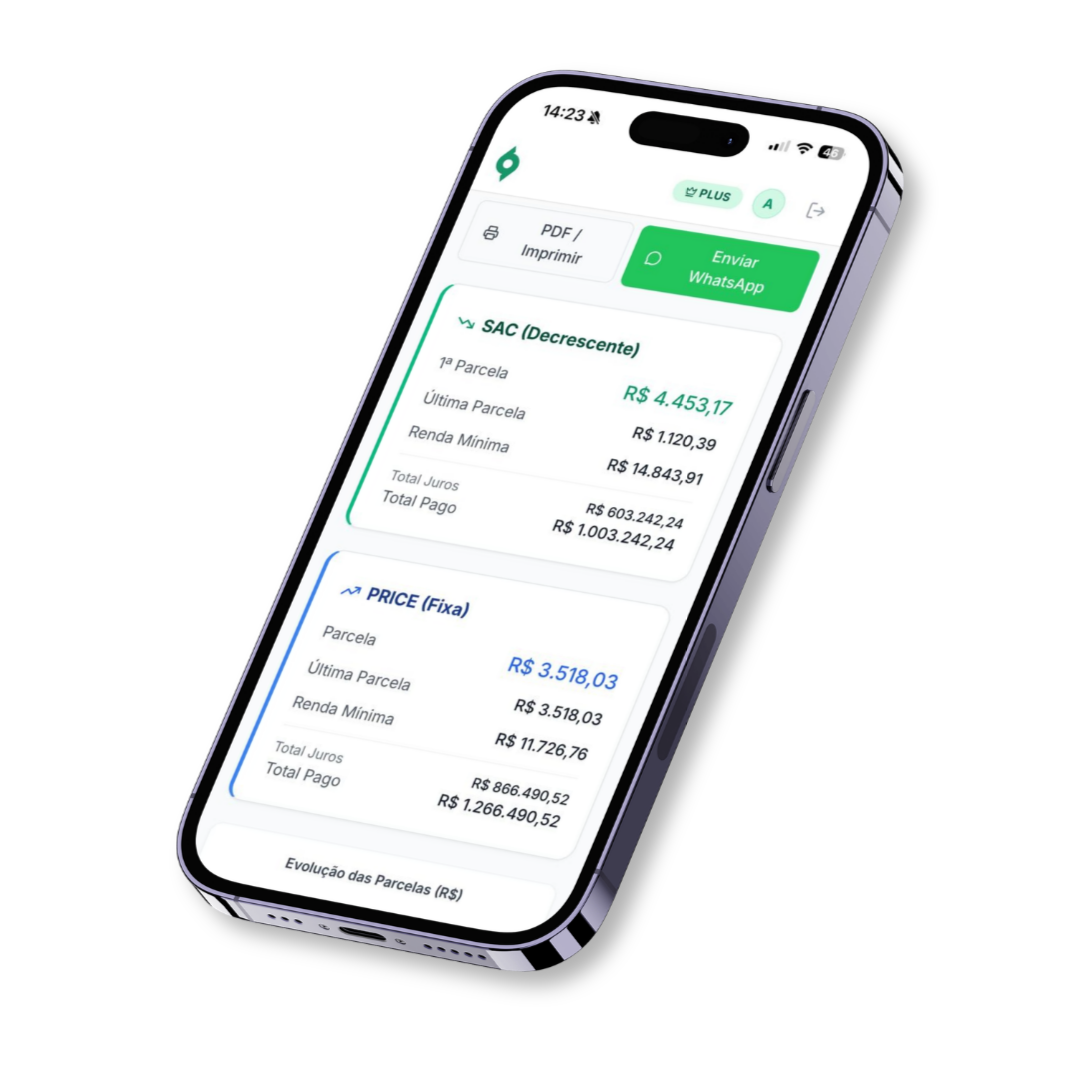
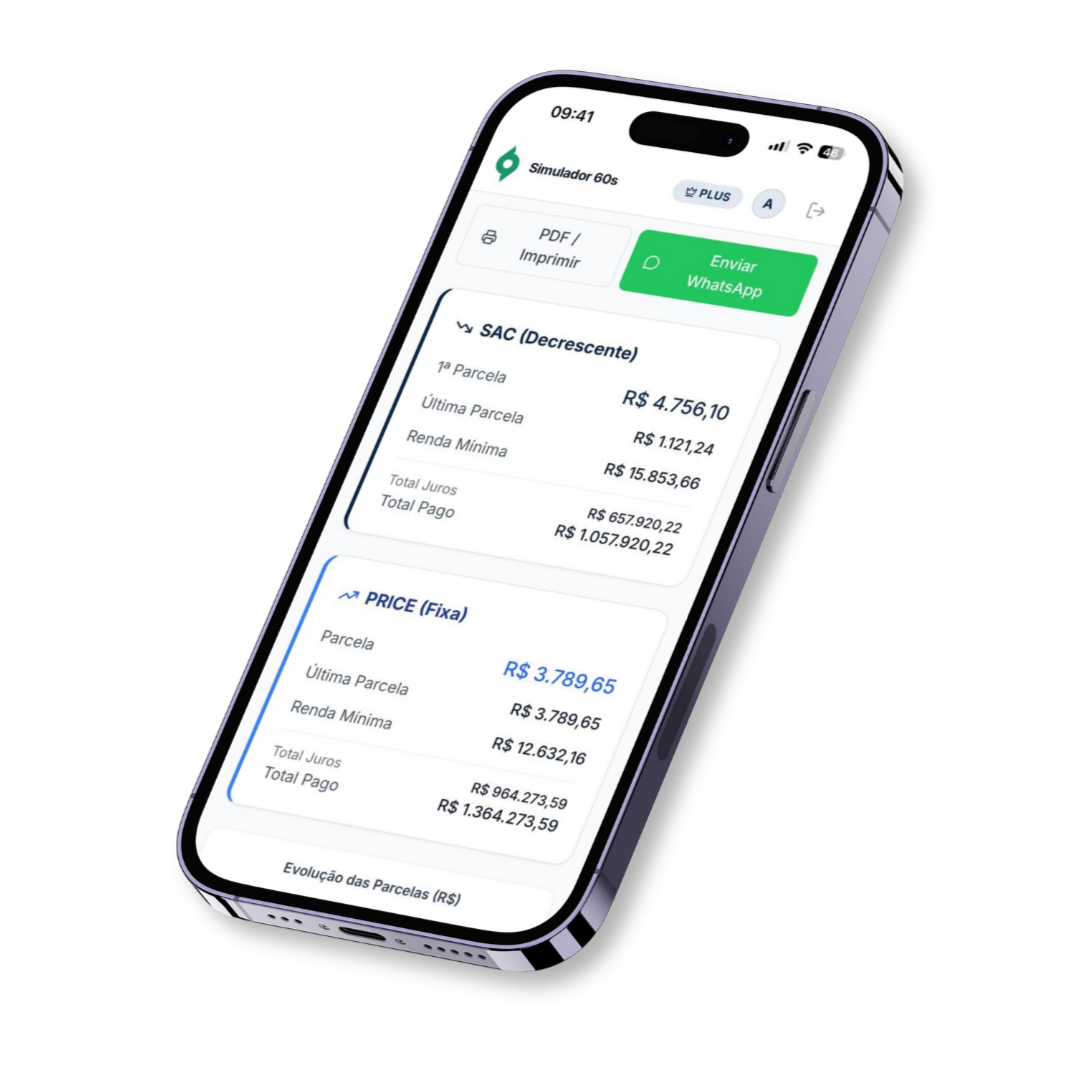
Ajusta preco para R fixo, adiciona secao de envio via WhatsApp na LP, corrige nome ausente no header mobile e remove travessoes dos textos

diff --git a/simulador-60-segundos/components/LandingPageNoBrain.tsx b/simulador-60-segundos/components/LandingPageNoBrain.tsx
@@ -161,7 +161,7 @@ export default function LandingPageNoBrain() {
                                 alt="Logo Simulador 60 Segundos"
                                 className="h-9 w-auto object-contain"
                             />
-                            <span className="text-lg font-bold tracking-tight text-white hidden sm:inline">Simulador 60 Segundos</span>
+                            <span className="text-sm sm:text-lg font-bold tracking-tight text-white whitespace-nowrap">Simulador 60 Segundos</span>
                         </button>
 
                         <div className="hidden md:flex items-center gap-4">
@@ -193,7 +193,7 @@ export default function LandingPageNoBrain() {
                             QUERO ACESSO AGORA
                         </button>
                         <button onClick={() => navigate('/login')} className="block w-full text-center text-white/70 text-sm py-1">
-                            Já sou cliente — Entrar
+                            Já sou cliente
                         </button>
                     </div>
                 )}
@@ -224,8 +224,8 @@ export default function LandingPageNoBrain() {
                             </h1>
 
                             <p className="max-w-xl mx-auto md:mx-0 text-lg text-[#D9E2EC] mb-8 leading-relaxed">
-                                Calcule entrada, parcelas SAC e PRICE, renda mínima, custos da compra, valor do anúncio e sua comissão —
-                                tudo no Simulador 60 Segundos, uma única ferramenta na palma da mão.
+                                Calcule entrada, parcelas SAC e PRICE, renda mínima, custos da compra, valor do anúncio e sua comissão.
+                                Tudo no Simulador 60 Segundos, uma única ferramenta na palma da mão.
                             </p>
 
                             <div className="flex flex-col sm:flex-row items-center justify-center md:justify-start gap-4">
@@ -422,6 +422,49 @@ export default function LandingPageNoBrain() {
                 </div>
             </section>
 
+            {/* --- ENVIO PELO WHATSAPP --- */}
+            <section className="py-20 bg-[#F3F5F7]">
+                <div className="max-w-6xl mx-auto px-4 sm:px-6 lg:px-8">
+                    <div className="grid lg:grid-cols-2 gap-12 items-center">
+                        <div className="order-1 flex justify-center">
+                            <img
+                                src="/images/tela_whatsapp.png"
+                                alt="Print real: resumo da simulação de financiamento enviado pelo WhatsApp no Simulador 60 Segundos"
+                                className="w-full max-w-[300px] sm:max-w-[360px] h-auto drop-shadow-2xl"
+                            />
+                        </div>
+                        <div className="order-2 text-center lg:text-left">
+                            <h2 className="text-3xl md:text-4xl font-black text-[#0F2747] mb-6">Envie um resumo profissional pelo WhatsApp em 1 toque</h2>
+                            <p className="text-[#1D2633]/70 mb-6">
+                                Depois de calcular o cenário, você não precisa digitar nada de novo pro cliente. O Simulador monta um
+                                resumo já formatado (com os dados do imóvel, entrada, parcelas SAC e PRICE e a ressalva sobre o CET)
+                                e você envia direto pelo WhatsApp, com o cliente ainda na sua frente.
+                            </p>
+                            <ul className="space-y-3 mb-8 text-left max-w-sm mx-auto lg:mx-0">
+                                <li className="flex items-start gap-3">
+                                    <CheckCircle2 className="w-5 h-5 text-[#B7F34A] flex-shrink-0 mt-0.5" />
+                                    <span className="text-[#1D2633]">Resumo pronto, sem digitar de novo</span>
+                                </li>
+                                <li className="flex items-start gap-3">
+                                    <CheckCircle2 className="w-5 h-5 text-[#B7F34A] flex-shrink-0 mt-0.5" />
+                                    <span className="text-[#1D2633]">Cenários SAC e PRICE lado a lado</span>
+                                </li>
+                                <li className="flex items-start gap-3">
+                                    <CheckCircle2 className="w-5 h-5 text-[#B7F34A] flex-shrink-0 mt-0.5" />
+                                    <span className="text-[#1D2633]">Passa mais profissionalismo do que print de tela</span>
+                                </li>
+                            </ul>
+                            <button
+                                onClick={handleAction}
+                                className="px-8 py-4 bg-[#B7F34A] text-[#0F2747] rounded-xl font-black hover:brightness-95 transition-all shadow-lg inline-flex items-center gap-2"
+                            >
+                                QUERO ENVIAR ASSIM TAMBÉM <ArrowRight className="w-5 h-5" />
+                            </button>
+                        </div>
+                    </div>
+                </div>
+            </section>
+
             {/* --- TRANSFORMAÇÃO DESEJADA --- */}
             <section className="py-20 bg-[#0F2747] text-white">
                 <div className="max-w-5xl mx-auto px-4 sm:px-6 lg:px-8">
@@ -550,15 +593,21 @@ export default function LandingPageNoBrain() {
                         Acesso liberado na hora
                     </div>
                     <h2 className="text-3xl md:text-4xl font-black text-[#0F2747] mb-4">Tenha as 4 ferramentas liberadas agora mesmo</h2>
-                    <p className="text-[#1D2633]/70 mb-12 max-w-xl mx-auto">Um pagamento por ano. Sem limite de uso, sem burocracia — acesso liberado assim que a compra é confirmada.</p>
+                    <p className="text-[#1D2633]/70 mb-12 max-w-xl mx-auto">Um pagamento por ano. Sem limite de uso, sem burocracia. Acesso liberado assim que a compra é confirmada.</p>
 
                     <div className="bg-[#0F2747] rounded-2xl shadow-xl p-8 sm:p-10 max-w-md mx-auto relative overflow-hidden">
                         <div className="absolute top-0 right-0 bg-[#B7F34A] text-[#0F2747] text-xs font-black px-3 py-1 rounded-bl-lg uppercase">Mais popular</div>
                         <h3 className="text-xl font-bold text-white">Plano Plus</h3>
                         <div className="my-4">
-                            <span className="text-5xl font-black text-white">R$ 97,00</span>
-                            <span className="text-[#B8C4D1]">/ano</span>
-                            <div className="text-sm text-[#B8C4D1] mt-1">ou 3x de R$ 32,33</div>
+                            <div className="flex items-center justify-center gap-2">
+                                <span className="text-base text-[#B8C4D1]/60 line-through">R$ 97,00</span>
+                                <span className="text-[11px] font-black text-[#0F2747] bg-[#B7F34A] px-2 py-0.5 rounded-full uppercase tracking-wide">-31%</span>
+                            </div>
+                            <div className="mt-1">
+                                <span className="text-5xl font-black text-white">R$ 67,00</span>
+                                <span className="text-[#B8C4D1]">/ano</span>
+                            </div>
+                            <div className="text-sm text-[#B8C4D1] mt-1">ou 3x de R$ 22,33</div>
                         </div>
                         <ul className="space-y-3 mb-8 text-left">
                             <PricingCheck text="Simulações ILIMITADAS" />
@@ -581,7 +630,7 @@ export default function LandingPageNoBrain() {
                     <p className="text-lg text-[#1D2633]/70">
                         Uma venda perdida pode representar milhares de reais em comissão. O Simulador 60 Segundos existe pra você não perder
                         o ritmo do atendimento por causa de uma conta que poderia ser feita em segundos. Você não está comprando uma
-                        calculadora — está colocando 4 ferramentas essenciais na palma da mão.
+                        calculadora: está colocando 4 ferramentas essenciais na palma da mão.
                     </p>
                 </div>
             </section>

diff --git a/simulador-60-segundos/components/PricingModal.tsx b/simulador-60-segundos/components/PricingModal.tsx
@@ -80,8 +80,12 @@ const PricingModal: React.FC<PricingModalProps> = ({ isOpen, onClose, onSelectPl
           <div className="p-6 border-2 border-[#B7F34A] rounded-xl bg-white relative">
             <div className="absolute -top-3 left-1/2 -translate-x-1/2 bg-[#B7F34A] text-[#0F2747] px-3 py-1 rounded-full text-xs font-bold">RECOMENDADO</div>
             <h3 className="font-bold text-xl">Profissional</h3>
-            <p className="text-2xl font-bold mt-2">R$ 97,00<span className="text-sm font-normal text-gray-500">/ano</span></p>
-            <p className="text-xs text-gray-500 mt-0.5">ou 3x de R$ 32,33</p>
+            <div className="flex items-center gap-2 mt-2">
+              <span className="text-sm text-gray-400 line-through">R$ 97,00</span>
+              <span className="text-[10px] font-black text-[#0F2747] bg-[#B7F34A] px-2 py-0.5 rounded-full uppercase tracking-wide">-31%</span>
+            </div>
+            <p className="text-2xl font-bold mt-1">R$ 67,00<span className="text-sm font-normal text-gray-500">/ano</span></p>
+            <p className="text-xs text-gray-500 mt-0.5">ou 3x de R$ 22,33</p>
             <p className="text-xs text-center text-[#0F2747] font-medium mt-1 mb-4">Renovação Automática</p>
             <ul className="mt-4 space-y-2 text-sm text-gray-600">
               <li className="flex gap-2"><Check className="w-4 h-4 text-[#0F2747]" /> Uso Ilimitado</li>
